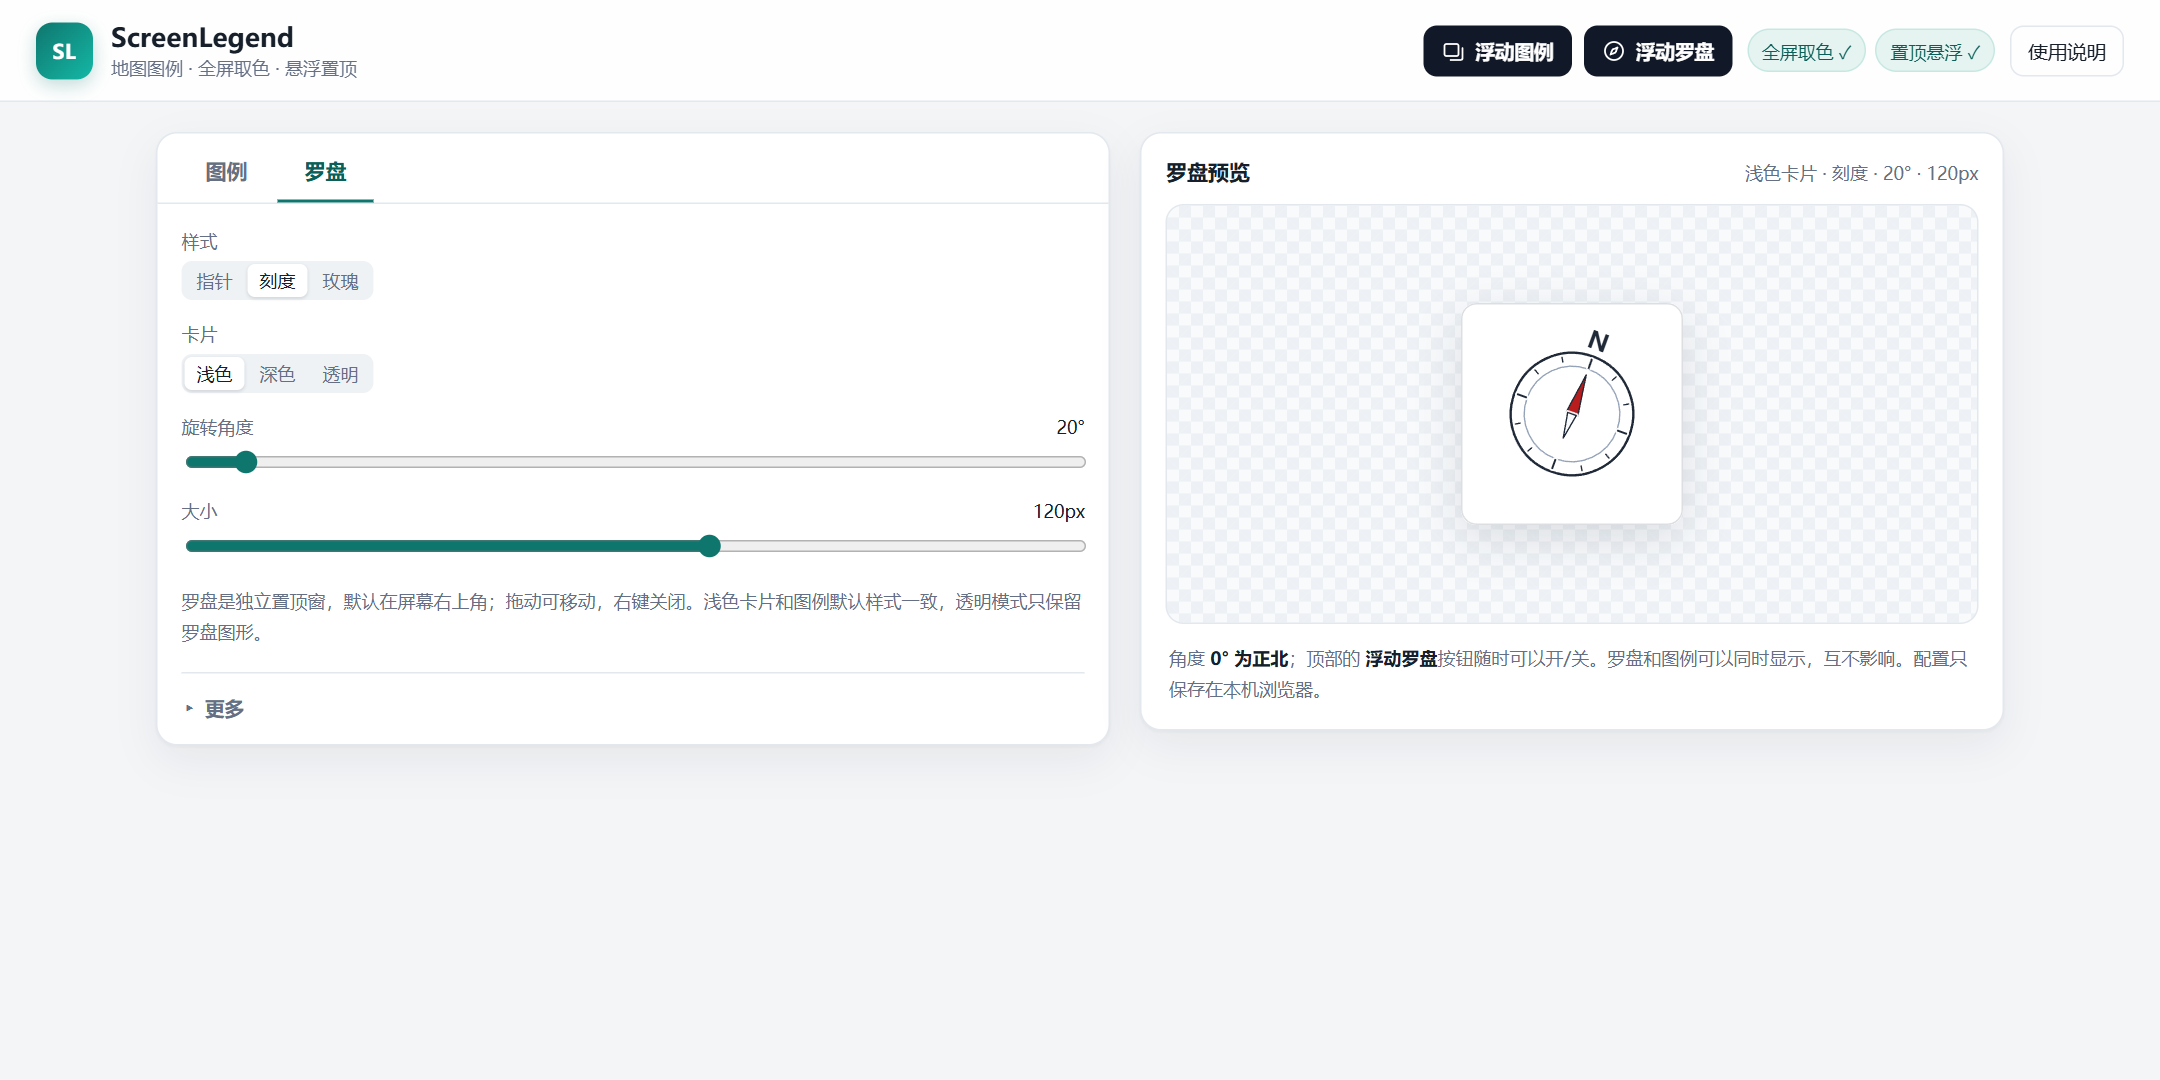
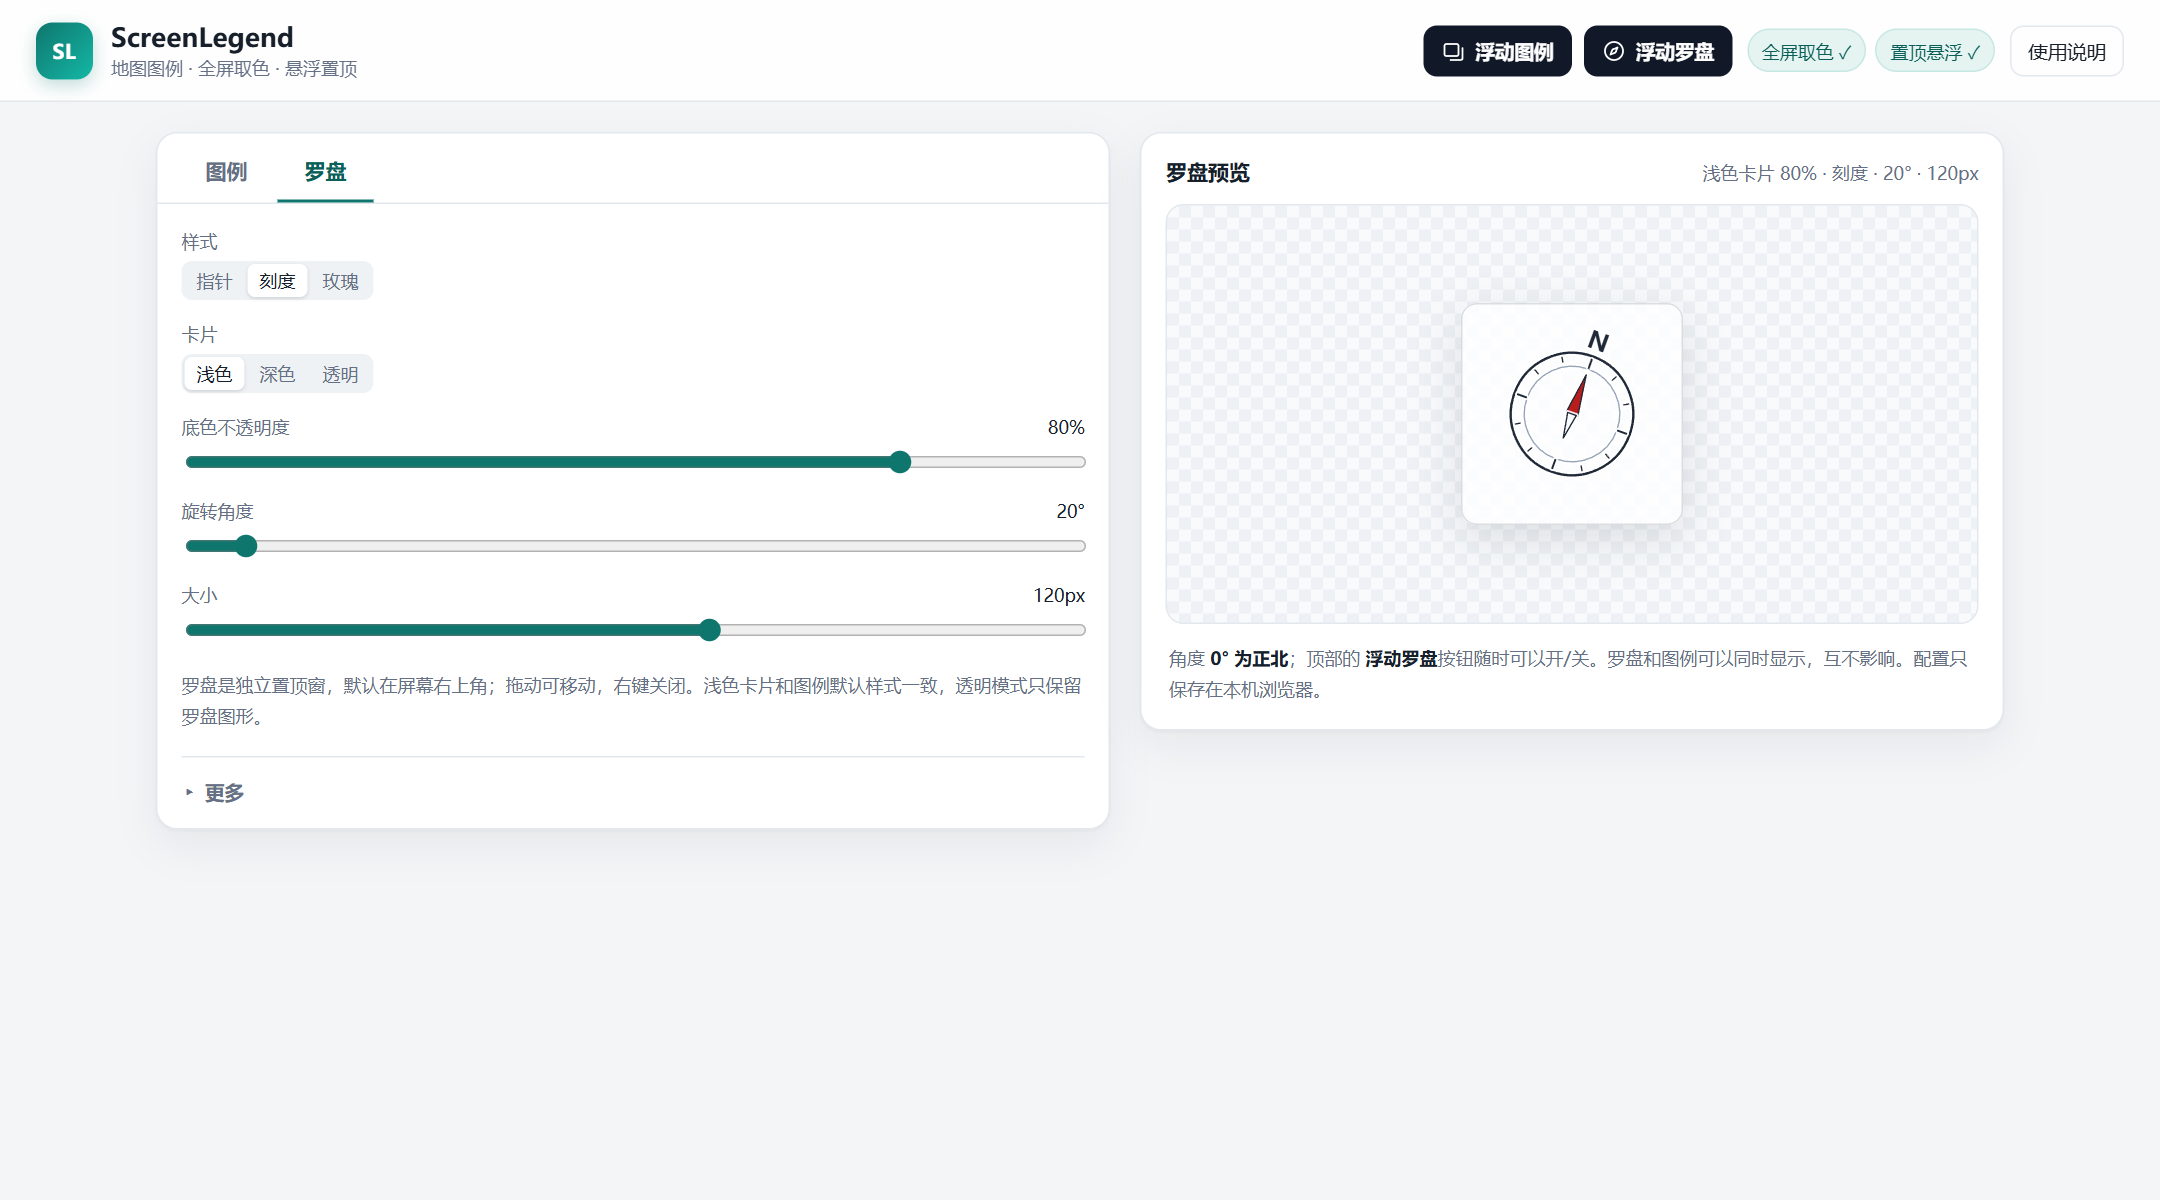
feat: 图例/罗盘背景不透明度只作用于底色，新增罗盘底色滑杆

diff --git a/index.html b/index.html
@@ -353,6 +353,7 @@ button { -webkit-tap-highlight-color: transparent; }
 .compass-page { display: flex; flex-direction: column; gap: 14px; }
 .compass-page .seg { align-self: flex-start; }
 .compass-page .hint { margin: 2px 0 0; }
+.compass-page input[type="range"]:disabled { opacity: .4; }
 .compass-stage { min-height: 300px; }
 #compassCanvas {
   display: block;
@@ -677,8 +678,8 @@ body.pip-body.no-fit #pip-root {
           </select>
         </label>
         <label class="field">
-          <span>浮窗不透明度 <output id="floatOpacityOut"></output></span>
-          <input type="range" id="floatOpacityRange" min="20" max="100" step="5">
+          <span>浮窗背景不透明度 <output id="floatOpacityOut"></output></span>
+          <input type="range" id="floatOpacityRange" min="0" max="100" step="5">
         </label>
         <label class="field">
           <span>背景色</span>
@@ -720,6 +721,10 @@ body.pip-body.no-fit #pip-root {
             <button class="seg-btn" type="button" data-card="none" aria-pressed="false">透明</button>
           </div>
         </div>
+        <label class="field">
+          <span>底色不透明度 <output id="compassOpacityOut">100%</output></span>
+          <input type="range" id="compassOpacityRange" min="0" max="100" step="5" title="只改卡片底色，罗盘图形保持不透明">
+        </label>
         <label class="field">
           <span>旋转角度 <output id="compassAngleOut">0°</output></span>
           <input type="range" id="compassAngleRange" min="0" max="359" step="1">
@@ -787,9 +792,9 @@ body.pip-body.no-fit #pip-root {
     <p class="note">
       每行右侧的<strong>滑块按钮</strong>可以打开「图例样式」：切换面型 / 线型，调整线宽、实线 / 虚线 / 点划线以及虚线间距；面型还可以单独设置边框颜色。线型和边框颜色都能用取色器或 HEX 修改。</p>
     <p class="note">
-      左侧分为「图例」和「罗盘」两个设置页，点标签切换。顶部的<strong>浮动图例</strong> / <strong>浮动罗盘</strong>按钮始终可见，可以随时开/关两扇独立窗口。罗盘页可选指针 / 刻度 / 玫瑰，浅色 / 深色 / 透明卡片，并可调角度（0° 为正北）和大小；罗盘与图例可同时显示、分别拖动、右键各自关闭。</p>
+      左侧分为「图例」和「罗盘」两个设置页，点标签切换。顶部的<strong>浮动图例</strong> / <strong>浮动罗盘</strong>按钮始终可见，可以随时开/关两扇独立窗口。罗盘页可选指针 / 刻度 / 玫瑰，浅色 / 深色 / 透明卡片，并可调底色不透明度、角度（0° 为正北）和大小；罗盘与图例可同时显示、分别拖动、右键各自关闭。</p>
     <p class="note">
-      图例和罗盘配置会自动保存在本机浏览器，不会上传。浮窗由 <code>启动.bat</code> 启动的后台小程序绘制：整块区域都能拖动、右键可关闭，尺寸与导出 PNG 1:1 对应，所以不会模糊；「浮窗不透明度」只影响图例浮窗本身。独占全屏程序、远程桌面或虚拟机可能盖住置顶窗口，请把地图软件设为窗口化或无边框全屏。直接打开 <code>index.html</code> 时小程序没在运行，会退回浏览器画中画窗口。</p>
+      图例和罗盘配置会自动保存在本机浏览器，不会上传。浮窗由 <code>启动.bat</code> 启动的后台小程序绘制：整块区域都能拖动、右键可关闭，尺寸与导出 PNG 1:1 对应，所以不会模糊；「浮窗背景不透明度」只改背景，文字和符号保持不透明，也不影响导出的 PNG。独占全屏程序、远程桌面或虚拟机可能盖住置顶窗口，请把地图软件设为窗口化或无边框全屏。直接打开 <code>index.html</code> 时小程序没在运行，会退回浏览器画中画窗口。</p>
     <div class="dialog-foot">
       <button class="btn primary" id="helpOkBtn" type="button">知道了</button>
     </div>
@@ -852,7 +857,8 @@ body.pip-body.no-fit #pip-root {
         style: 'needle',
         card: 'light',
         angle: 0,
-        size: 96
+        size: 96,
+        opacity: 1
       }
     };
   }
@@ -890,6 +896,14 @@ body.pip-body.no-fit #pip-root {
       return Math.round(v + (target - v) * ratio);
     });
     return '#' + out.map(function (v) { return v.toString(16).padStart(2, '0'); }).join('');
+  }
+
+  function hexToRgba(value, alpha) {
+    var c = normalizeHex(value) || '#ffffff';
+    var a = Number(alpha);
+    if (!isFinite(a)) a = 1;
+    a = Math.min(1, Math.max(0, a));
+    return 'rgba(' + parseInt(c.slice(1, 3), 16) + ',' + parseInt(c.slice(3, 5), 16) + ',' + parseInt(c.slice(5, 7), 16) + ',' + a + ')';
   }
 
   /* One dash pattern for SVG, CSS and the canvas renderer, so the editor
@@ -960,14 +974,15 @@ body.pip-body.no-fit #pip-root {
         border: op.border !== false,
         transparentExport: op.transparentExport === true,
         exportScale: [1, 2, 3].indexOf(Number(op.exportScale)) >= 0 ? Number(op.exportScale) : 2,
-        floatOpacity: clampInt(Math.round(Number(op.floatOpacity) * 100), 20, 100, 100) / 100,
+        floatOpacity: clampInt(Math.round(Number(op.floatOpacity) * 100), 0, 100, 100) / 100,
         fitPip: op.fitPip !== false
       },
       compass: {
         style: COMPASS_STYLES.indexOf(cp.style) >= 0 ? cp.style : d.compass.style,
         card: COMPASS_CARDS.indexOf(cp.card) >= 0 ? cp.card : d.compass.card,
         angle: clampInt(cp.angle, 0, 359, d.compass.angle),
-        size: clampInt(cp.size, 64, 160, d.compass.size)
+        size: clampInt(cp.size, 64, 160, d.compass.size),
+        opacity: clampInt(Math.round(Number(cp.opacity) * 100), 0, 100, 100) / 100
       }
     };
   }
@@ -1068,7 +1083,7 @@ body.pip-body.no-fit #pip-root {
 
   function cardVars(s, m, transparent) {
     var o = s.options;
-    var bg = transparent ? 'transparent' : o.background;
+    var bg = transparent ? 'transparent' : hexToRgba(o.background, o.floatOpacity);
     var borderColor = borderColorFor(o.background);
     return [
       '--pad:' + m.pad + 'px',
@@ -1245,6 +1260,14 @@ body.pip-body.no-fit #pip-root {
     if (size) size.value = String(state.compass.size);
     var sizeOut = $('compassSizeOut');
     if (sizeOut) sizeOut.textContent = state.compass.size + 'px';
+    var opacity = $('compassOpacityRange');
+    var opacityPct = Math.round((state.compass.opacity == null ? 1 : state.compass.opacity) * 100);
+    if (opacity) {
+      opacity.value = String(opacityPct);
+      opacity.disabled = state.compass.card === 'none';
+    }
+    var opacityOut = $('compassOpacityOut');
+    if (opacityOut) opacityOut.textContent = opacityPct + '%';
     var seg = $('compassStyleSeg');
     if (seg) {
       var btns = seg.querySelectorAll('[data-style]');
@@ -1468,7 +1491,10 @@ body.pip-body.no-fit #pip-root {
     if (activeTab === 'compass') {
       var styleLabel = { needle: '指针', ring: '刻度', rose: '玫瑰' }[state.compass.style] || '指针';
       var cardLabel = COMPASS_CARD_LABELS[state.compass.card] || '浅色卡片';
-      previewMeta.textContent = cardLabel + ' · ' + styleLabel + ' · ' + state.compass.angle + '° · ' + state.compass.size + 'px';
+      var cardPart = state.compass.card === 'none'
+        ? cardLabel
+        : cardLabel + ' ' + Math.round((state.compass.opacity == null ? 1 : state.compass.opacity) * 100) + '%';
+      previewMeta.textContent = cardPart + ' · ' + styleLabel + ' · ' + state.compass.angle + '° · ' + state.compass.size + 'px';
     } else {
       previewMeta.textContent = state.items.length + ' 个分类 · ' + Math.min(state.options.columns, Math.max(1, state.items.length)) + ' 列';
     }
@@ -1491,8 +1517,8 @@ body.pip-body.no-fit #pip-root {
     } else {
       root.innerHTML = legendHTML(state, { transparent: false });
     }
-    doc.body.style.background = state.options.background;
-    doc.body.style.setProperty('--pip-bg', state.options.background);
+    doc.body.style.background = 'transparent';
+    doc.body.style.setProperty('--pip-bg', 'transparent');
     window.requestAnimationFrame(function () {
       autoSizePip(false);
       fitPip();
@@ -1825,7 +1851,7 @@ body.pip-body.no-fit #pip-root {
     g.restore();
   }
 
-  function renderToCanvas(s, scale) {
+  function renderToCanvas(s, scale, backgroundOpacity) {
     var m = metrics(s);
     var o = s.options;
     var n = s.items.length;
@@ -1860,10 +1886,14 @@ body.pip-body.no-fit #pip-root {
     g.textAlign = 'left';
     g.textBaseline = 'middle';
 
+    var bgOpacity = (backgroundOpacity == null) ? 1 : Math.max(0, Math.min(1, Number(backgroundOpacity)));
     if (!o.transparentExport) {
+      g.save();
+      g.globalAlpha = bgOpacity;
       g.fillStyle = o.background;
       roundRect(g, 0, 0, width, height, 10);
       g.fill();
+      g.restore();
     }
     if (o.border) {
       g.strokeStyle = borderColorFor(o.background);
@@ -2177,16 +2207,21 @@ body.pip-body.no-fit #pip-root {
 
   /* The compass floats in a card that matches the legend card: same padding,
      radius and border. `card` is light / dark / none. */
-  function drawCompassCard(g, size, style, angle, card) {
+  function drawCompassCard(g, size, style, angle, card, opacity) {
     var s = clampInt(size, 64, 160, 96);
     var cardName = compassCardName(card);
     var pad = cardName === 'none' ? 0 : COMPASS_PAD;
     var cardSize = s + pad * 2;
     if (cardName !== 'none') {
+      var bgAlpha = Number(opacity);
+      if (!isFinite(bgAlpha)) bgAlpha = 1;
+      bgAlpha = Math.max(0, Math.min(1, bgAlpha));
       g.save();
       roundRect(g, 0, 0, cardSize, cardSize, 10);
+      g.globalAlpha = bgAlpha;
       g.fillStyle = cardName === 'dark' ? '#111827' : '#ffffff';
       g.fill();
+      g.globalAlpha = 1;
       g.strokeStyle = cardName === 'dark' ? 'rgba(255,255,255,.22)' : 'rgba(15,23,42,.14)';
       g.lineWidth = 1;
       roundRect(g, 0.5, 0.5, cardSize - 1, cardSize - 1, 10);
@@ -2199,7 +2234,7 @@ body.pip-body.no-fit #pip-root {
     g.restore();
   }
 
-  function renderCompassCardCanvas(size, style, angle, card, scale) {
+  function renderCompassCardCanvas(size, style, angle, card, opacity, scale) {
     var cardSize = compassCardSize(size, card);
     var safeScale = Math.max(0.5, Number(scale) || 1);
     var cnv = document.createElement('canvas');
@@ -2207,7 +2242,7 @@ body.pip-body.no-fit #pip-root {
     cnv.height = cnv.width;
     var g = cnv.getContext('2d');
     g.scale(safeScale, safeScale);
-    drawCompassCard(g, size, style, angle, card);
+    drawCompassCard(g, size, style, angle, card, opacity);
     return cnv;
   }
 
@@ -2225,7 +2260,7 @@ body.pip-body.no-fit #pip-root {
     g.setTransform(1, 0, 0, 1, 0, 0);
     g.clearRect(0, 0, canvas.width, canvas.height);
     g.scale(dpr, dpr);
-    drawCompassCard(g, size, state.compass.style, state.compass.angle, state.compass.card);
+    drawCompassCard(g, size, state.compass.style, state.compass.angle, state.compass.card, state.compass.opacity);
     canvas.classList.toggle('no-card', state.compass.card === 'none');
     updateMeta();
   }
@@ -2260,20 +2295,17 @@ body.pip-body.no-fit #pip-root {
       showTitle: state.showTitle,
       items: state.items,
       options: opts
-    }, scale);
+    }, scale, state.options.floatOpacity);
     /* Windows ignores mouse input over fully transparent pixels of a layered
        window, so an alpha=0 background could not be used to drag the card.
        Lift those pixels to alpha=1: invisible to the eye, but grabbable.
-       The same pass applies the "float opacity" slider. */
-    var opacity = state.options.floatOpacity;
-    if (opacity == null) opacity = 1;
+       The background opacity was already applied by renderToCanvas, so text
+       and symbols stay fully opaque. */
     var g = cnv.getContext('2d');
     var img = g.getImageData(0, 0, cnv.width, cnv.height);
     var data = img.data;
     for (var i = 3; i < data.length; i += 4) {
-      var a = data[i];
-      if (opacity < 1) a = Math.round(a * opacity);
-      data[i] = a > 0 ? a : 1;
+      if (data[i] === 0) data[i] = 1;
     }
     g.putImageData(img, 0, 0);
     var url = cnv.toDataURL('image/png');
@@ -2376,7 +2408,7 @@ body.pip-body.no-fit #pip-root {
 
   function compassPngBase64() {
     var scale = Math.max(1, window.devicePixelRatio || 1);
-    var cnv = renderCompassCardCanvas(state.compass.size, state.compass.style, state.compass.angle, state.compass.card, scale);
+    var cnv = renderCompassCardCanvas(state.compass.size, state.compass.style, state.compass.angle, state.compass.card, state.compass.opacity, scale);
     /* Windows ignores mouse input over fully transparent pixels of a layered
        window, so lift alpha=0 to 1: invisible, but draggable. */
     var g = cnv.getContext('2d');
@@ -2485,17 +2517,13 @@ body.pip-body.no-fit #pip-root {
       showTitle: state.showTitle,
       items: state.items,
       options: opts
-    }, floatScale());
+    }, floatScale(), state.options.floatOpacity);
     var dst = floatCanvas();
     dst.width = src.width;
     dst.height = src.height;
     var g = dst.getContext('2d');
     g.clearRect(0, 0, dst.width, dst.height);
-    var opacity = state.options.floatOpacity;
-    if (opacity == null) opacity = 1;
-    g.globalAlpha = Math.max(0.05, Math.min(1, opacity));
     g.drawImage(src, 0, 0);
-    g.globalAlpha = 1;
     if (pushFrame) {
       var track = vpipStream && vpipStream.getVideoTracks()[0];
       if (track && track.requestFrame) track.requestFrame();
@@ -2750,6 +2778,13 @@ body.pip-body.no-fit #pip-root {
     on('compassSizeRange', 'input', function (e) {
       state.compass.size = clampInt(e.target.value, 64, 160, 96);
       $('compassSizeOut').textContent = state.compass.size + 'px';
+      renderCompassPreview();
+      refreshCompass();
+      saveState();
+    });
+    on('compassOpacityRange', 'input', function (e) {
+      state.compass.opacity = clampInt(e.target.value, 0, 100, 100) / 100;
+      $('compassOpacityOut').textContent = Math.round(state.compass.opacity * 100) + '%';
       renderCompassPreview();
       refreshCompass();
       saveState();
